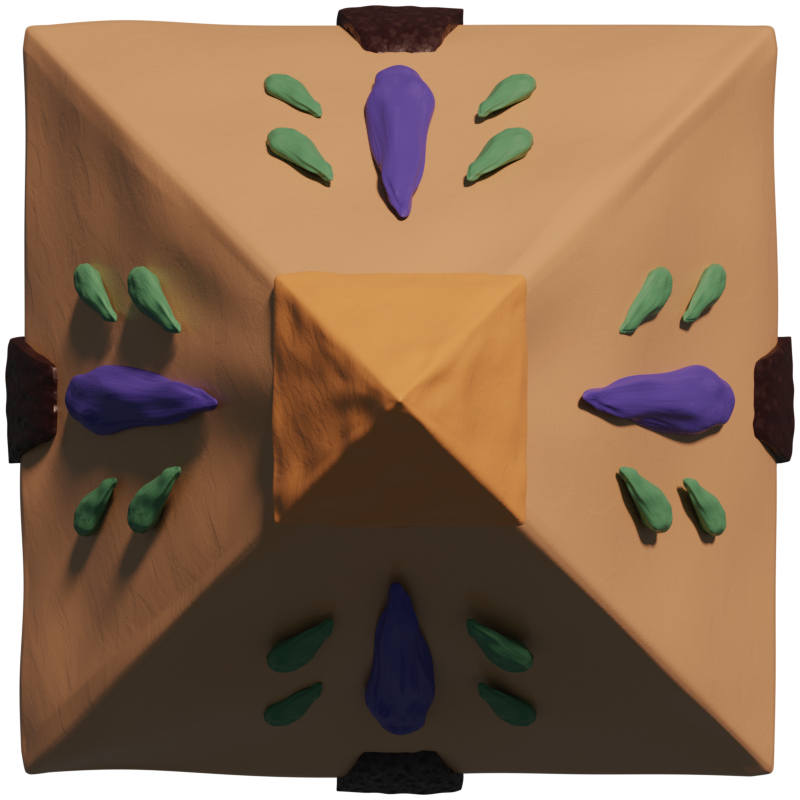
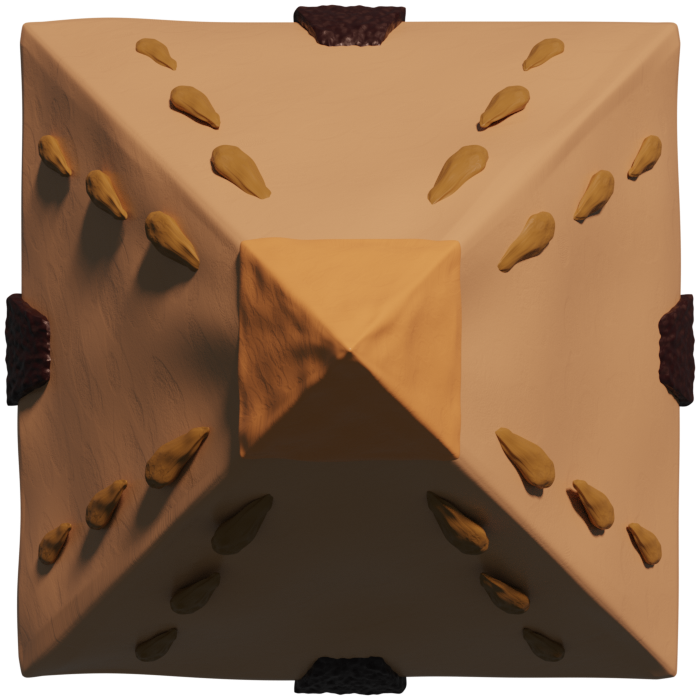
cambiado fondo de juego

diff --git a/Carom/src/Scenes/Gimmicks/RussianPyramidScene.cpp b/Carom/src/Scenes/Gimmicks/RussianPyramidScene.cpp
@@ -31,7 +31,7 @@ RussianPyramidScene::RussianPyramidScene(State* state, Game* g, GameScene* rewar
 
     initGimmick();
 
-    getComponent<RenderTextureComponent>(getEntitiesOfGroup(grp::TABLE_BACKGROUND)[0])->changeColorTint(206, 38, 0);
+    getComponent<RenderTextureComponent>(getEntitiesOfGroup(grp::TABLE_BACKGROUND)[0])->changeColorTint(237, 191, 47);
 }
 
 RussianPyramidScene::~RussianPyramidScene()
